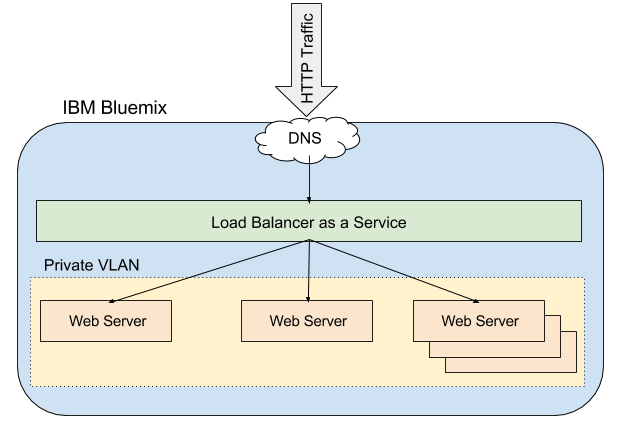
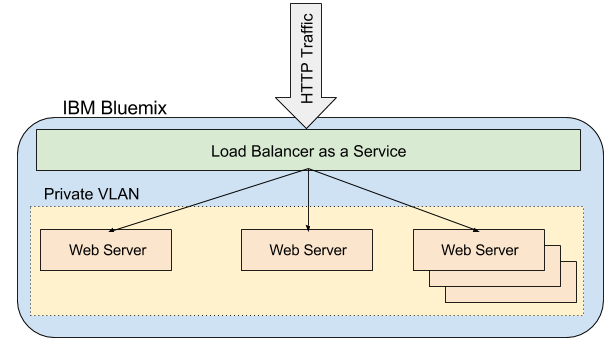
Remove DNS

diff --git a/README.md b/README.md
@@ -1,15 +1,14 @@
 # Terraform Bluemix Load Balanced Web Servers
 
-An example Terraform configuration template to deploy an IBM load balancer fronted by DNS and _N_ number of web servers running nginx configured with a simple hello world app .
+An example Terraform configuration template to deploy an IBM load balancer and _N_ number of web servers running nginx configured with a simple hello world app.
 
 This configuration will create the following resources:
 
 - A Private VLAN
 - A Load balancer
-- _N_ (default 2) load balancer service definitions
-- _N_ (default 2) virtual guests acting as web servers
-- A DNS domain
-- A DNS record
+- _N_ (default `2`) load balancer service definitions
+- An SSH Key
+- _N_ (default `2`) virtual guests acting as web servers
 
 # Architecture
 
